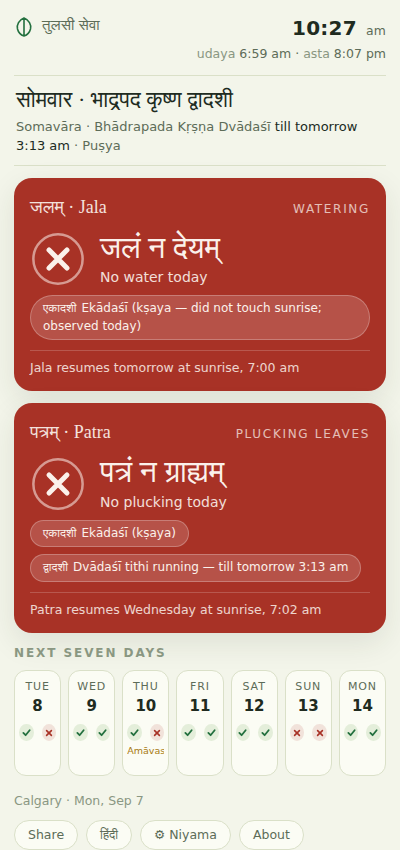
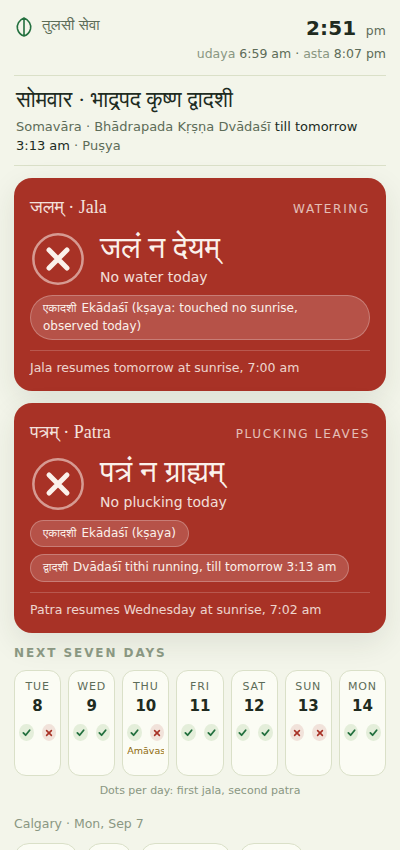
UX polish, PWA (manifest + service worker), copy cleanup

diff --git a/index.html b/index.html
@@ -6,6 +6,13 @@
 <meta property="og:type" content="website">
 <meta property="og:url" content="https://gauravtripathi001.github.io/tulsi-seva/">
 <meta property="og:image" content="https://gauravtripathi001.github.io/tulsi-seva/share-card.png">
+<meta name="theme-color" content="#F3F5EA" media="(prefers-color-scheme: light)">
+<meta name="theme-color" content="#0B110C" media="(prefers-color-scheme: dark)">
+<meta name="apple-mobile-web-app-capable" content="yes">
+<meta name="mobile-web-app-capable" content="yes">
+<meta name="apple-mobile-web-app-status-bar-style" content="black-translucent">
+<meta name="apple-mobile-web-app-title" content="Tulasī Sevā">
+<link rel="manifest" href="manifest.json">
[2 lines of base64/hex data omitted]
 <style>
@@ -23,7 +30,7 @@
     --no-field: #A83226;
     --no-ink: #FBF1EB;
     --no-soft: #F1E2DA;
-    --gold: #A87A12;
+    --gold: #8F6A0E;
     --ok-glyph: #23703F;
     --no-glyph: #A83226;
     --chip: rgba(255,255,255,.16);
@@ -151,10 +158,18 @@
   .sheet .gps { font: inherit; background: var(--ok-field); color: var(--ok-ink); border: none; border-radius: 999px; padding: 6px 13px; cursor: pointer; }
   .horizon { color: var(--no-glyph); }
   .err { display: none; background: var(--no-soft); color: var(--no-field); border-radius: 10px; padding: 10px 14px; }
+  .legend { margin-top: 7px; font-size: 11px; color: var(--faint); text-align: center; }
+  @media (pointer: coarse) {
+    .foot button { padding: 9px 16px; }
+    .banner button { padding: 8px 14px; }
+    .toggle { padding: 11px 0; }
+    .sheet .close { padding: 7px 14px; }
+  }
   @media (prefers-reduced-motion: reduce) { * { transition: none !important; } }
 </style>
 
 <div class="wrap">
+  <noscript><div style="background:#F1E2DA;color:#A83226;border-radius:10px;padding:12px 16px">JavaScript is required to compute the panchang. Please enable it and reload.</div></noscript>
   <header class="top">
     <div class="mark">
       <svg width="20" height="24" viewBox="0 0 20 24" aria-hidden="true">
@@ -183,7 +198,7 @@
   </div>
 
   <main class="verdicts">
-    <section class="verdict" id="card-water" data-state="ok" aria-live="polite">
+    <section class="verdict" id="card-water" data-state="ok" role="status" aria-live="polite">
       <div class="v-head"><span class="v-title">जलम् · Jala</span><span class="v-sub" id="ws-sub">Watering</span></div>
       <div class="v-main">
         <svg class="v-glyph" viewBox="0 0 100 100" aria-hidden="true">
@@ -196,7 +211,7 @@
       <div class="v-next" id="w-next"></div>
     </section>
 
-    <section class="verdict" id="card-pluck" data-state="ok" aria-live="polite">
+    <section class="verdict" id="card-pluck" data-state="ok" role="status" aria-live="polite">
       <div class="v-head"><span class="v-title">पत्रम् · Patra</span><span class="v-sub" id="ks-sub">Plucking leaves</span></div>
       <div class="v-main">
         <svg class="v-glyph" viewBox="0 0 100 100" aria-hidden="true">
@@ -213,11 +228,12 @@
   <section class="outlook">
     <h2 id="outlook-h2">Next seven days</h2>
     <div class="strip" id="strip"></div>
+    <div class="legend" id="strip-legend"></div>
   </section>
 
   <footer class="foot">
     <span id="place">Calgary</span>
-    <span id="horizon" class="horizon" hidden>grahaṇa table ended Dec 2029 — needs refresh</span>
+    <span id="horizon" class="horizon" hidden>grahaṇa table ended Dec 2029, needs refresh</span>
     <div class="btns">
       <button id="btn-share" type="button">Share</button>
       <button id="btn-lang" type="button">हिंदी</button>
@@ -229,13 +245,13 @@
 
 <div class="scrim" id="scrim"></div>
 
-<aside class="sheet" id="sheet-settings" aria-label="Rule settings">
+<aside class="sheet" id="sheet-settings" role="dialog" aria-modal="true" aria-label="Rule settings">
   <button class="close" data-close type="button">Close</button>
   <h3>Niyama toggles</h3>
-  <p>Traditions differ — switch each rule to match your paramparā. Changes apply immediately and are remembered on this device.</p>
-  <h4>जलम् — watering blocked on</h4>
+  <p>Traditions differ, so switch each rule to match your paramparā. Changes apply immediately and are remembered on this device.</p>
+  <h4>जलम्, watering blocked on</h4>
   <div class="tgl-grid" id="tgl-water"></div>
-  <h4>पत्रम् — plucking blocked on</h4>
+  <h4>पत्रम्, plucking blocked on</h4>
   <div class="tgl-grid" id="tgl-pluck"></div>
   <h4>Location</h4>
   <div class="loc-row">
@@ -254,26 +270,26 @@
   <h4>Theme</h4>
   <div class="loc-row">
     <select id="theme-sel">
-      <option value="auto">Auto — follows the sun</option>
+      <option value="auto">Auto, follows the sun</option>
       <option value="day">Always day</option>
       <option value="night">Always night</option>
     </select>
   </div>
 </aside>
 
-<aside class="sheet" id="sheet-about" aria-label="About the calculations">
+<aside class="sheet" id="sheet-about" role="dialog" aria-modal="true" aria-label="About the calculations">
   <button class="close" data-close type="button">Close</button>
   <h3>How Tulasī Sevā decides</h3>
-  <p><b>The verdicts are live.</b> Everything is computed astronomically on this device — sun and moon geocentric longitudes (tithi = 12° steps of moon−sun elongation), local sunrise and sunset, and the nirayana sun (Lahiri ayanāṁśa) for saṅkrānti. No internet is needed after the page loads.</p>
-  <p><b>Day reckoning.</b> The Hindu day runs sunrise to sunrise, so before dawn the vāra and day-verdicts of the previous sunrise still apply. Day-level rules (Ekādaśī, vāra, saṅkrānti) follow the udaya tithi — the tithi at local sunrise. Running-tithi rules (Dvādaśī, Pūrṇimā, Amāvasyā) apply while that tithi is actually current, and lift the moment it ends. Every label and time follows the configured place's own timezone, so the device clock's zone cannot skew the vāra. The month shown is pūrṇimānta (UP convention): the amānta lunation is named by the saṅkrānti it contains, adhika māsa is flagged and named when it holds none, and the kṛṣṇa pakṣa carries the following month's name.</p>
-  <p><b>Kṣaya tithis.</b> At this latitude a tithi sometimes begins after one sunrise and ends before the next, touching neither. A kṣaya Ekādaśī is still observed — on the day Dvādaśī is udaya (the usual smārta nirṇaya); the card says so when this happens. In a vṛddhi (Ekādaśī udaya at two consecutive sunrises) both days are held, conservatively — smārta and vaiṣṇava nirṇayas each pick a single day, so loosen by hand if your paramparā does. The whole saṅkrānti day is likewise held, though the strict puṇyakāla is a narrower window around the ingress.</p>
-  <p><b>The rules.</b> Watering pauses on Ekādaśī (Tulasī herself is held to keep nirjalā ekādaśī for Viṣṇu), on Ravivāra, and during grahaṇa. Patra is not taken on Ravivāra, Maṅgalavāra, Ekādaśī, Dvādaśī, Amāvasyā, Pūrṇimā, saṅkrānti, at night, or during grahaṇa — the list smṛti digests commonly cite (attributions vary: Padma Purāṇa, Viṣṇudharmottara; Hari-bhakti-vilāsa stresses Dvādaśī). Exact ślokas differ between digests — verify against your own paramparā and toggle accordingly. Leaves are taken only when needed, with the right hand, and never uprooted.</p>
-  <p><b>Grahaṇa windows</b> (sūtaka 9 h before a candra, 12 h before a sūrya grahaṇa; both verdicts close from sūtaka until mokṣa; only events visible from the set location apply — the Calgary-sky list at western longitudes, the India-sky list at eastern, both when in between):</p>
+  <p><b>The verdicts are live.</b> Everything is computed astronomically on this device, sun and moon geocentric longitudes (tithi = 12° steps of moon−sun elongation), local sunrise and sunset, and the nirayana sun (Lahiri ayanāṁśa) for saṅkrānti. No internet is needed after the page loads.</p>
+  <p><b>Day reckoning.</b> The Hindu day runs sunrise to sunrise, so before dawn the vāra and day-verdicts of the previous sunrise still apply. Day-level rules (Ekādaśī, vāra, saṅkrānti) follow the udaya tithi, the tithi at local sunrise. Running-tithi rules (Dvādaśī, Pūrṇimā, Amāvasyā) apply while that tithi is actually current, and lift the moment it ends. Every label and time follows the configured place's own timezone, so the device clock's zone cannot skew the vāra. The month shown is pūrṇimānta (UP convention): the amānta lunation is named by the saṅkrānti it contains, adhika māsa is flagged and named when it holds none, and the kṛṣṇa pakṣa carries the following month's name.</p>
+  <p><b>Kṣaya tithis.</b> At this latitude a tithi sometimes begins after one sunrise and ends before the next, touching neither. A kṣaya Ekādaśī is still observed, on the day Dvādaśī is udaya (the usual smārta nirṇaya); the card says so when this happens. In a vṛddhi (Ekādaśī udaya at two consecutive sunrises) both days are held, conservatively, smārta and vaiṣṇava nirṇayas each pick a single day, so loosen by hand if your paramparā does. The whole saṅkrānti day is likewise held, though the strict puṇyakāla is a narrower window around the ingress.</p>
+  <p><b>The rules.</b> Watering pauses on Ekādaśī (Tulasī herself is held to keep nirjalā ekādaśī for Viṣṇu), on Ravivāra, and during grahaṇa. Patra is not taken on Ravivāra, Maṅgalavāra, Ekādaśī, Dvādaśī, Amāvasyā, Pūrṇimā, saṅkrānti, at night, or during grahaṇa, the list smṛti digests commonly cite (attributions vary: Padma Purāṇa, Viṣṇudharmottara; Hari-bhakti-vilāsa stresses Dvādaśī). Exact ślokas differ between digests, verify against your own paramparā and toggle accordingly. Leaves are taken only when needed, with the right hand, and never uprooted.</p>
+  <p><b>Grahaṇa windows</b> (sūtaka 9 h before a candra, 12 h before a sūrya grahaṇa; both verdicts close from sūtaka until mokṣa; only events visible from the set location apply, the Calgary-sky list at western longitudes, the India-sky list at eastern, both when in between):</p>
   <table class="gr-table"><thead><tr><th>Date</th><th>Event</th></tr></thead><tbody id="gr-body"></tbody></table>
   <p>No Calgary-visible grahaṇa occurs before Jan 2028. The table runs through Dec 2029; a refresh is scheduled before it lapses, and the footer warns if it ever runs out of date.</p>
-  <p><b>Accuracy.</b> Tithi end-times cross-checked against published pañcāṅgas (Sep 2026 – Mar 2027 sample) agree within about a minute; saṅkrānti instants within ~10 minutes. Good for daily seva — for vrata-critical timing, confirm with your pañcāṅga of record.</p>
-  <p><b>Keep it by your tulasī.</b> On a phone or tablet: open this page → browser menu → "Add to Home Screen" — it opens full-screen like an app and keeps working offline after the first load. For an always-on display, an old phone on a charger with the screen kept awake works beautifully.</p>
-  <p><b>Beyond Calgary and India:</b> tithi, vāra, sunrise and saṅkrānti compute correctly anywhere on Earth. The grahaṇa lists currently cover the North-American and Indian skies — elsewhere, verify eclipses locally.</p>
+  <p><b>Accuracy.</b> Tithi end-times cross-checked against published pañcāṅgas (Sep 2026 – Mar 2027 sample) agree within about a minute; saṅkrānti instants within ~10 minutes. Good for daily seva, for vrata-critical timing, confirm with your pañcāṅga of record.</p>
+  <p><b>Keep it by your tulasī.</b> On a phone or tablet: open this page → browser menu → "Add to Home Screen", it opens full-screen like an app and keeps working offline after the first load. For an always-on display, an old phone on a charger with the screen kept awake works beautifully.</p>
+  <p><b>Beyond Calgary and India:</b> tithi, vāra, sunrise and saṅkrānti compute correctly anywhere on Earth. The grahaṇa lists currently cover the North-American and Indian skies, elsewhere, verify eclipses locally.</p>
   <p class="credit">Made with care by Gaurav Tripathi in Calgary · astronomy by astronomy-engine (MIT) · free, no ads, no tracking. Tulasyai namaḥ.</p>
   <!-- support-section (activate by uncommenting once daksina links exist):
   <p class="credit">If this seva serves your home, a daksina keeps it free for everyone: UPI __UPI__ · ko-fi.com/__HANDLE__</p>
@@ -611,7 +627,7 @@ function createPanchang(A) {
   // ---------- grahana (regional lists; UTC instants; sutak precedes start) ----------
   // NA = Calgary/western North America sky, IN = India sky.
   const GRAHANA = [
-    { type: 'sūrya',  name: 'Partial sūrya grahaṇa', note: 'low-magnitude graze over India — verify local visibility', regions: ['IN'], marginal: true, start: Date.UTC(2027,7,2,8,25),  end: Date.UTC(2027,7,2,12,44) },
+    { type: 'sūrya',  name: 'Partial sūrya grahaṇa', note: 'low-magnitude graze over India, verify local visibility', regions: ['IN'], marginal: true, start: Date.UTC(2027,7,2,8,25),  end: Date.UTC(2027,7,2,12,44) },
     { type: 'candra', name: 'Partial candra grahaṇa', regions: ['NA'],       start: Date.UTC(2028,0,12,3,45),  end: Date.UTC(2028,0,12,4,41) },
     { type: 'candra', name: 'Partial candra grahaṇa', regions: ['IN'],       start: Date.UTC(2028,6,6,17,9),   end: Date.UTC(2028,6,6,19,31) },
     { type: 'candra', name: 'Total candra grahaṇa',   regions: ['IN'],       start: Date.UTC(2028,11,31,15,8), end: Date.UTC(2028,11,31,18,37) },
@@ -692,20 +708,20 @@ function createPanchang(A) {
     // -- water --
     if (s.waterEkadashi && day.eka.observed)
       R(waterReasons, 'ekadashi', 'एकादशी', day.eka.kshaya
-        ? 'Ekādaśī (kṣaya — did not touch sunrise; observed today)'
-        : 'Ekādaśī — Tulasī keeps nirjalā vrata for Viṣṇu', od.nextRise);
+        ? 'Ekādaśī (kṣaya: touched no sunrise, observed today)'
+        : 'Ekādaśī: Tulasī keeps nirjalā vrata for Viṣṇu', od.nextRise);
     if (s.waterDvadashi && [12, 27].includes(day.udaya) && !day.eka.observed)
       R(waterReasons, 'dvadashi-day', 'द्वादशी', 'Dvādaśī (udaya)', od.nextRise);
     if (s.waterSunday && day.vara === 0)
       R(waterReasons, 'sunday', 'रविवार', 'Ravivāra', od.nextRise);
     if (s.waterNight && night)
-      R(waterReasons, 'night', 'सूर्यास्त', 'After sunset — jala is offered in the morning', od.nextRise);
+      R(waterReasons, 'night', 'सूर्यास्त', 'After sunset, jala is offered in the morning', od.nextRise);
     if (s.waterGrahana && gra)
       R(waterReasons, 'grahana', 'ग्रहण', (gra.inSutak ? 'Sūtaka before ' : '') + gra.name, new Date(gra.end));
 
     // -- pluck --
     if (s.pluckNight && night)
-      R(pluckReasons, 'night', 'रात्रि', 'Night — patra is never taken after sunset', od.nextRise);
+      R(pluckReasons, 'night', 'रात्रि', 'Night: patra is never taken after sunset', od.nextRise);
     if (s.pluckSunday && day.vara === 0) R(pluckReasons, 'sunday', 'रविवार', 'Ravivāra', od.nextRise);
     if (s.pluckTuesday && day.vara === 2) R(pluckReasons, 'tuesday', 'मङ्गलवार', 'Maṅgalavāra', od.nextRise);
     if (s.pluckFriday && day.vara === 5) R(pluckReasons, 'friday', 'शुक्रवार', 'Śukravāra', od.nextRise);
@@ -725,7 +741,7 @@ function createPanchang(A) {
       }
     }
     if (s.pluckSankranti && day.sankranti)
-      R(pluckReasons, 'sankranti', 'सङ्क्रान्ति', 'Saṅkrānti — sūrya changes rāśi today', od.nextRise);
+      R(pluckReasons, 'sankranti', 'सङ्क्रान्ति', 'Saṅkrānti: sūrya changes rāśi today', od.nextRise);
     if (s.pluckGrahana && gra)
       R(pluckReasons, 'grahana', 'ग्रहण', (gra.inSutak ? 'Sūtaka before ' : '') + gra.name, new Date(gra.end));
 
@@ -838,32 +854,32 @@ if (typeof module !== 'undefined') module.exports = { createPanchang };
       watering: 'Watering', plucking: 'Plucking leaves', next7: 'Next seven days',
       openTill: 'Open until sunset, {t}', reopensToday: 'Reopens today at {t}',
       resumes: '{k} resumes {d} at sunrise, {t}', tomorrow: 'tomorrow', jala: 'Jala', patra: 'Patra',
-      advisory: 'Ekādaśī tithi is running — the vrata day is tomorrow',
+      advisory: 'Ekādaśī tithi is running. The vrata day is tomorrow',
       share: 'Share', copied: 'Link copied ✓', useLoc: '📍 Use my location', chooseCity: 'Choose city', okBtn: 'Looks right ✓',
-      banner: 'Showing pañcāṅga for {p} (guessed from your clock). Set your exact place — verdicts depend on local sunrise.',
-      bannerNoGuess: 'Set your location — verdicts depend on local sunrise.',
-      yourLoc: 'Your location', till: 'till',
-      shareText: 'Tulasī Sevā — should you water or pluck tulasī today? Live śāstra verdict, free: ' },
+      banner: 'Showing pañcāṅga for {p}, guessed from your clock. Set your exact place, since verdicts depend on local sunrise.',
+      bannerNoGuess: 'Set your location, since verdicts depend on local sunrise.',
+      yourLoc: 'Your location', till: 'till', legend: 'Dots per day: first jala, second patra',
+      shareText: 'Tulasī Sevā, should you water or pluck tulasī today? Live śāstra verdict, free: ' },
     hi: { waterYes: 'आज जल चढ़ाएँ', waterNo: 'आज जल न चढ़ाएँ', waterNoNight: 'रात्रि में जल नहीं',
       pluckYes: 'पत्र तोड़ सकते हैं', pluckNo: 'आज पत्र न तोड़ें', pluckNoNight: 'रात्रि में पत्र न तोड़ें',
       watering: 'जल-अर्पण', plucking: 'पत्र-चयन', next7: 'अगले सात दिन',
       openTill: 'सूर्यास्त {t} तक', reopensToday: 'आज {t} से पुनः',
       resumes: '{k} पुनः {d} सूर्योदय {t} से', tomorrow: 'कल', jala: 'जल', patra: 'पत्र',
-      advisory: 'एकादशी तिथि चल रही है — व्रत-दिवस कल है',
+      advisory: 'एकादशी तिथि चल रही है, व्रत-दिवस कल है',
       share: 'साझा करें', copied: 'लिंक कॉपी ✓', useLoc: '📍 मेरा स्थान', chooseCity: 'शहर चुनें', okBtn: 'ठीक है ✓',
-      banner: 'आपकी घड़ी से {p} माना गया है। सटीक स्थान चुनें — निर्णय स्थानीय सूर्योदय पर निर्भर हैं।',
-      bannerNoGuess: 'अपना स्थान चुनें — निर्णय स्थानीय सूर्योदय पर निर्भर हैं।',
-      yourLoc: 'आपका स्थान', till: 'तक',
-      shareText: 'तुलसी सेवा — आज तुलसी को जल चढ़ाएँ या नहीं? देखें: ' }
+      banner: 'आपकी घड़ी से {p} माना गया है। सटीक स्थान चुनें, निर्णय स्थानीय सूर्योदय पर निर्भर हैं।',
+      bannerNoGuess: 'अपना स्थान चुनें, निर्णय स्थानीय सूर्योदय पर निर्भर हैं।',
+      yourLoc: 'आपका स्थान', till: 'तक', legend: 'प्रति दिन: पहला बिंदु जल, दूसरा पत्र',
+      shareText: 'तुलसी सेवा, आज तुलसी को जल चढ़ाएँ या नहीं? देखें: ' }
   };
   const t = k => (I18N[S.lang] || I18N.en)[k] || I18N.en[k] || k;
   const HI_REASON = {
-    'ekadashi:k': 'एकादशी (क्षय — आज मानी गई)', 'ekadashi': 'एकादशी — तुलसी विष्णु हेतु निर्जला व्रत रखती हैं',
+    'ekadashi:k': 'एकादशी (क्षय, आज मानी गई)', 'ekadashi': 'एकादशी: तुलसी विष्णु हेतु निर्जला व्रत रखती हैं',
     'dvadashi-day': 'द्वादशी (उदय)', 'sunday': 'रविवार', 'tuesday': 'मङ्गलवार', 'friday': 'शुक्रवार',
-    'night:water': 'सूर्यास्त के बाद — जल प्रातः चढ़ाया जाता है', 'night:pluck': 'रात्रि — सूर्यास्त के बाद पत्र नहीं तोड़ते',
+    'night:water': 'सूर्यास्त के बाद, जल प्रातः चढ़ाया जाता है', 'night:pluck': 'रात्रि: सूर्यास्त के बाद पत्र नहीं तोड़ते',
     'ekadashi-live': 'एकादशी तिथि चल रही है', 'dvadashi': 'द्वादशी तिथि चल रही है', 'chaturdashi': 'चतुर्दशी तिथि चल रही है',
     'purnima': 'पूर्णिमा तिथि चल रही है', 'amavasya': 'अमावस्या तिथि चल रही है',
-    'sankranti': 'सङ्क्रान्ति — सूर्य आज राशि बदलते हैं', 'grahana': 'ग्रहण-सूतक काल'
+    'sankranti': 'सङ्क्रान्ति: सूर्य आज राशि बदलते हैं', 'grahana': 'ग्रहण-सूतक काल'
   };
   function reasonText(kind, r) {
     if (S.lang !== 'hi') return r.en;
@@ -872,7 +888,7 @@ if (typeof module !== 'undefined') module.exports = { createPanchang };
       if (kind === 'pluck') return 'एकादशी' + (r.en.indexOf('kṣaya') >= 0 ? ' (क्षय)' : '');
       return r.en.indexOf('kṣaya') >= 0 ? HI_REASON['ekadashi:k'] : HI_REASON['ekadashi'];
     }
-    if (r.key === 'grahana') return HI_REASON['grahana'] + ' — ' + r.en.replace('Sūtaka before ', '');
+    if (r.key === 'grahana') return HI_REASON['grahana'] + ': ' + r.en.replace('Sūtaka before ', '');
     return HI_REASON[r.key] || r.en;
   }
   let S = { ...P.DEFAULTS, preset: 'calgary', lang: 'en', locConfirmed: false };
@@ -884,7 +900,7 @@ if (typeof module !== 'undefined') module.exports = { createPanchang };
       if (saved.locConfirmed === undefined) saved.locConfirmed = true; /* pre-v2 installs */
       S = { ...S, ...saved };
     }
-  } catch (e) { /* storage unavailable — defaults */ }
+  } catch (e) { /* storage unavailable, defaults */ }
   if (!hadSaved) {
     try { if ((navigator.language || '').toLowerCase().indexOf('hi') === 0) S.lang = 'hi'; } catch (e) {}
     const g = TZ_GUESS[deviceTz()];
@@ -946,8 +962,10 @@ if (typeof module !== 'undefined') module.exports = { createPanchang };
     renderStrip(days);
     renderGrahana();
     $('horizon').hidden = Date.now() <= P.HORIZON;
-    $('tz-note').textContent = 'Sunrise, sunset, vāra and every displayed time follow this place and its timezone (' + S.tz + ') — the device clock timezone no longer matters.';
+    $('tz-note').textContent = 'Sunrise, sunset, vāra and every displayed time follow this place and its timezone (' + S.tz + '). The device clock timezone does not matter.';
+    document.documentElement.lang = S.lang === 'hi' ? 'hi' : 'en';
     $('ws-sub').textContent = t('watering'); $('ks-sub').textContent = t('plucking');
+    $('strip-legend').textContent = t('legend');
     $('outlook-h2').textContent = t('next7');
     $('btn-lang').textContent = S.lang === 'hi' ? 'EN' : 'हिंदी';
     $('btn-gps').textContent = t('useLoc');
@@ -967,8 +985,8 @@ if (typeof module !== 'undefined') module.exports = { createPanchang };
       let extra = '';
       if (r.until && LIVE_KEYS.includes(r.key)) {
         extra = S.lang === 'hi'
-          ? ' — ' + (sameDay(r.until, v.now) ? '' : t('tomorrow') + ' ') + fmtT(r.until) + ' ' + t('till')
-          : ' — till ' + (sameDay(r.until, v.now) ? '' : 'tomorrow ') + fmtT(r.until);
+          ? ', ' + (sameDay(r.until, v.now) ? '' : t('tomorrow') + ' ') + fmtT(r.until) + ' ' + t('till')
+          : ', till ' + (sameDay(r.until, v.now) ? '' : 'tomorrow ') + fmtT(r.until);
       }
       const lead = S.lang === 'hi' ? '' : '<b>' + r.dev + '</b>';
       return '<li>' + lead + reasonText(kind, r) + extra + '</li>';
@@ -1068,7 +1086,7 @@ if (typeof module !== 'undefined') module.exports = { createPanchang };
       const st = new Date(g.start);
       const dt = st.toLocaleDateString('en-US', { year: 'numeric', month: 'short', day: 'numeric', timeZone: S.tz });
       const reg = g.regions.map(r => r === 'NA' ? 'Calgary sky' : 'India sky').join(' + ');
-      return '<tr><td>' + dt + '</td><td>' + g.name + ' <em>(' + reg + ')</em> — ' + fmtT(st) + ' to ' + fmtT(new Date(g.end)) +
+      return '<tr><td>' + dt + '</td><td>' + g.name + ' <em>(' + reg + ')</em>: ' + fmtT(st) + ' to ' + fmtT(new Date(g.end)) +
         ', sūtaka from ' + fmtT(new Date(g.start - g.sutakHrs * 3600000)) + (g.note ? '. Note: ' + g.note : '') + '</td></tr>';
     }).join('');
   }
@@ -1121,6 +1139,7 @@ if (typeof module !== 'undefined') module.exports = { createPanchang };
   // ---------- loop ----------
   render();
   updateBanner();
+  if ('serviceWorker' in navigator) { try { navigator.serviceWorker.register('sw.js').catch(function () {}); } catch (e) {} }
   setInterval(render, 30000);
   document.addEventListener('visibilitychange', () => { if (!document.hidden) render(); });
 })();

diff --git a/sw.js b/sw.js
@@ -1,0 +1,17 @@
+const C = 'tulsiseva-v3';
+self.addEventListener('install', e => {
+  e.waitUntil(caches.open(C).then(c => c.addAll(['./'])).then(() => self.skipWaiting()));
+});
+self.addEventListener('activate', e => {
+  e.waitUntil(caches.keys().then(ks => Promise.all(ks.filter(k => k !== C).map(k => caches.delete(k)))).then(() => self.clients.claim()));
+});
+self.addEventListener('fetch', e => {
+  if (e.request.method !== 'GET') return;
+  e.respondWith(
+    fetch(e.request).then(r => {
+      const cp = r.clone();
+      caches.open(C).then(c => c.put(e.request, cp));
+      return r;
+    }).catch(() => caches.match(e.request, { ignoreSearch: true }).then(m => m || caches.match('./')))
+  );
+});

diff --git a/README.md b/README.md
@@ -3,15 +3,15 @@
 **Should you water tulsī today? Should you pluck the leaves?**
 **Live: https://gauravtripathi001.github.io/tulsi-seva/**
 
-A single, self-contained web page that answers both, live — by computing the full pañcāṅga in your browser.
+A single, self-contained web page that answers both, live - by computing the full pañcāṅga in your browser.
 
 Many Hindu households pause watering tulsī on Ekādaśī (Tulasī herself is held to keep nirjalā ekādaśī for Viṣṇu) and on Sundays, and avoid plucking leaves on Ekādaśī, Dvādaśī, Amāvasyā, Pūrṇimā, Saṅkrānti, Sundays, Tuesdays, after sunset, and during grahaṇa. Remembering all of that against a lunar calendar is exactly what computers are for.
 
 ## What it does
 
-- **Two big verdicts** — जलम् (water) and पत्रम् (pluck) — green or red, with the reason (e.g. *"Śukla Ekādaśī — resumes tomorrow at sunrise, 7:01 am"*) and a seven-day outlook.
-- **A real pañcāṅga engine, fully in-browser** (via [astronomy-engine](https://github.com/cosinekitty/astronomy), MIT): tithi from lunar elongation, vāra on sunrise-to-sunrise reckoning, udaya-tithi day logic with kṣaya/vṛddhi handling, pūrṇimānta māsa with adhika-māsa detection, nakṣatra, and nirāyaṇa (Lahiri) saṅkrānti. No API, no backend — it works offline after first load.
-- **Works anywhere on Earth** — auto-locates from your clock's timezone, one-tap GPS refine, city presets.
+- **Two big verdicts** - जलम् (water) and पत्रम् (pluck) - green or red, with the reason (e.g. *"Śukla Ekādaśī - resumes tomorrow at sunrise, 7:01 am"*) and a seven-day outlook.
+- **A real pañcāṅga engine, fully in-browser** (via [astronomy-engine](https://github.com/cosinekitty/astronomy), MIT): tithi from lunar elongation, vāra on sunrise-to-sunrise reckoning, udaya-tithi day logic with kṣaya/vṛddhi handling, pūrṇimānta māsa with adhika-māsa detection, nakṣatra, and nirāyaṇa (Lahiri) saṅkrānti. No API, no backend - it works offline after first load.
+- **Works anywhere on Earth** - auto-locates from your clock's timezone, one-tap GPS refine, city presets.
 - **हिंदी / English**, day/night theme that follows the actual sun at your location, and every rule is a toggle so it matches *your* family's tradition.
 - **Grahaṇa windows with sūtaka** for the North-American and Indian skies (through Dec 2029).
 - **No ads. No tracking. No accounts.** One HTML file.
@@ -24,11 +24,11 @@ Many Hindu households pause watering tulsī on Ekādaśī (Tulasī herself is he
 
 ## Accuracy
 
-Tithi end-times cross-checked against published pañcāṅgas over a six-month sample agree within ~1 minute; saṅkrānti instants within ~10 minutes (never a different day). Kṣaya cases (a tithi that touches no sunrise — common at northern latitudes) are handled with the standard smārta nirṇaya and labeled on screen. For vrata-critical timing, confirm with your pañcāṅga of record — and where your paramparā differs, use the toggles.
+Tithi end-times cross-checked against published pañcāṅgas over a six-month sample agree within ~1 minute; saṅkrānti instants within ~10 minutes (never a different day). Kṣaya cases (a tithi that touches no sunrise - common at northern latitudes) are handled with the standard smārta nirṇaya and labeled on screen. For vrata-critical timing, confirm with your pañcāṅga of record - and where your paramparā differs, use the toggles.
 
 ## Run it
 
-Open `index.html`. That's the whole deployment story — host it on any static host, keep it on an old phone by the plant (browser menu → *Add to Home Screen*), or run it from a file.
+Open `index.html`. That's the whole deployment story - host it on any static host, keep it on an old phone by the plant (browser menu → *Add to Home Screen*), or run it from a file.
 
 ## Maintenance
 
